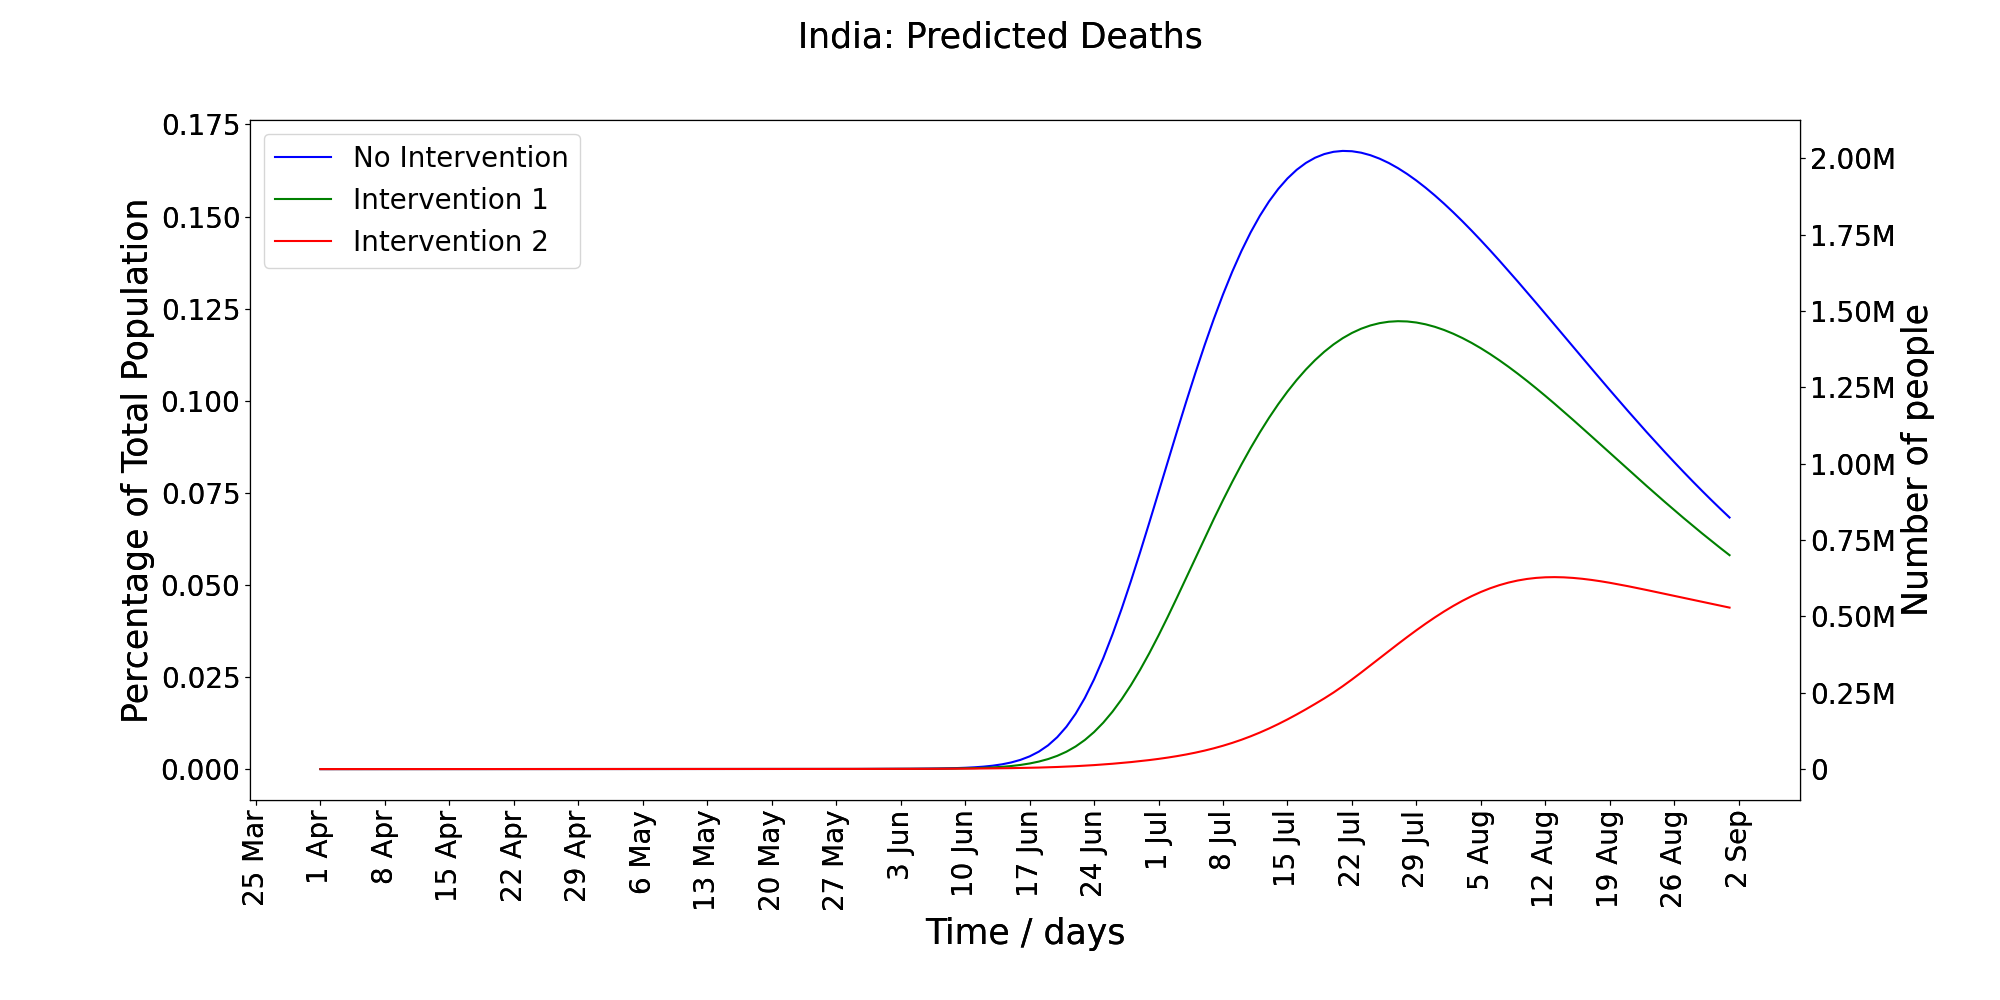
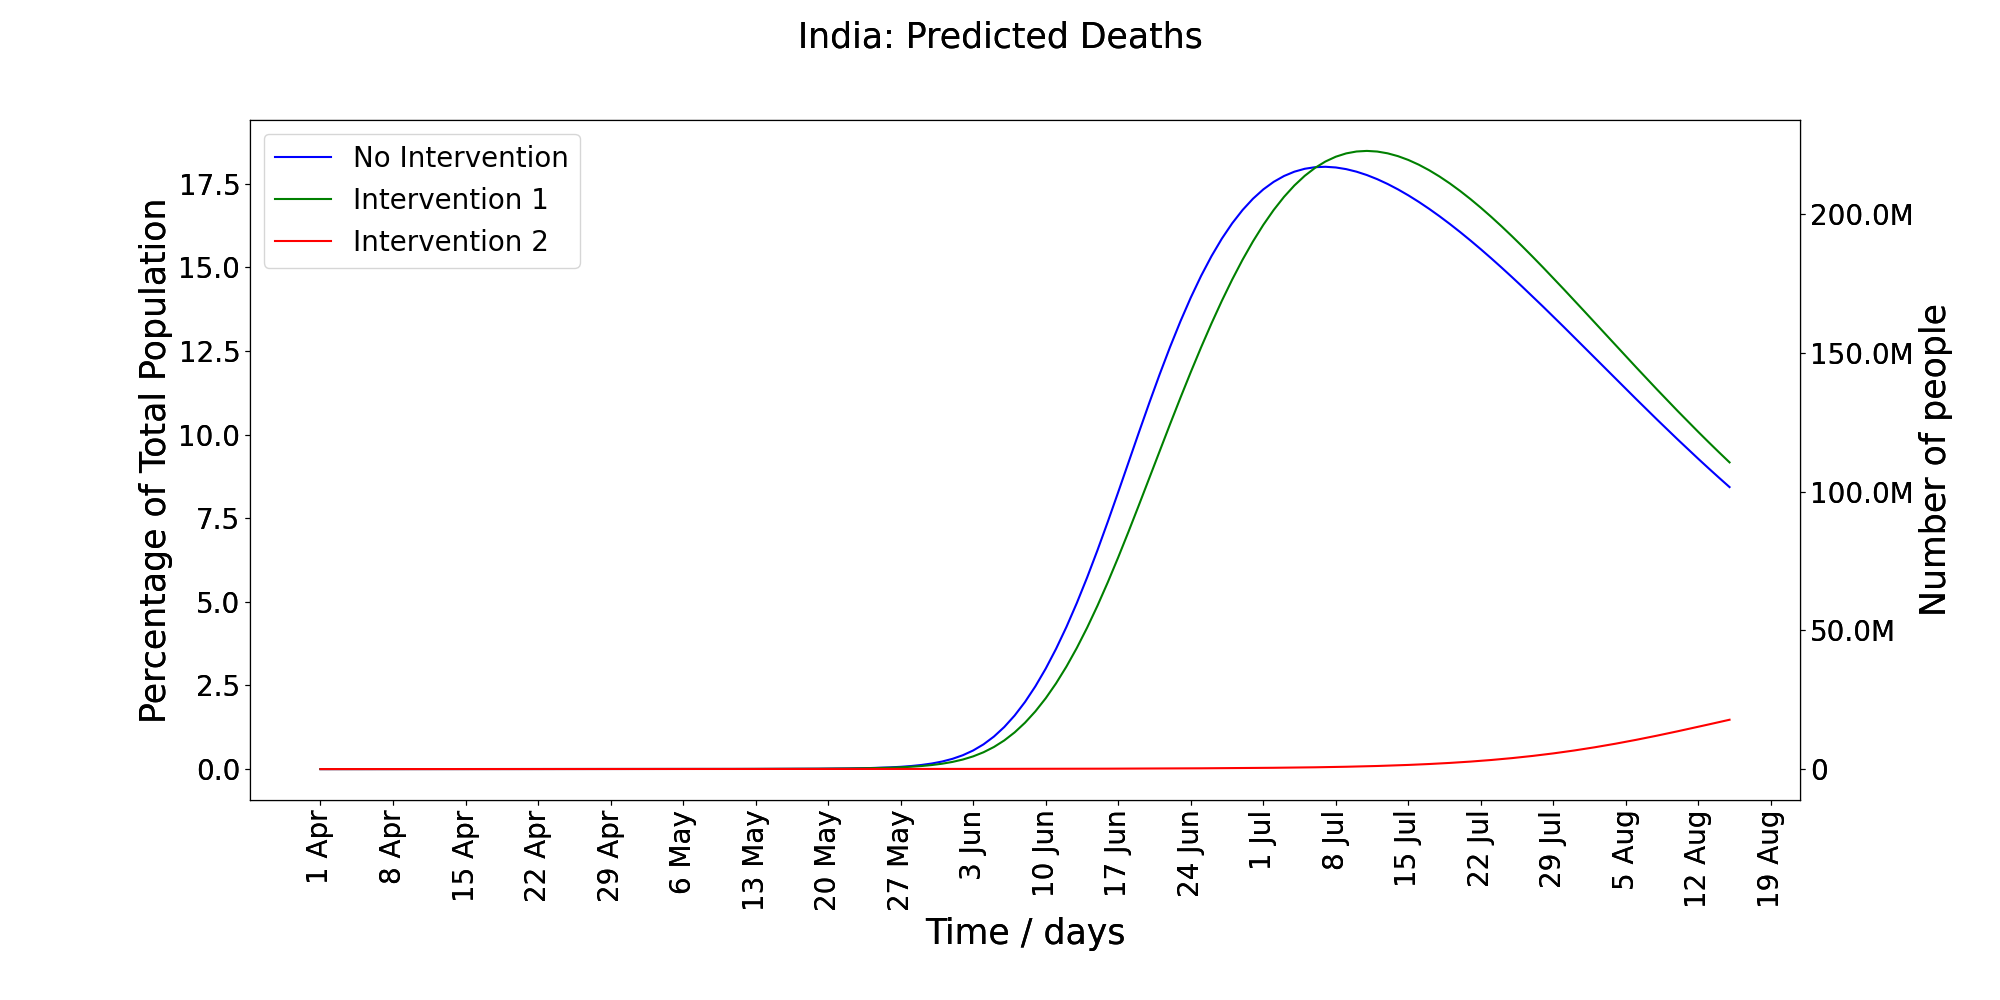
added code to make country wide plots

diff --git a/PlotIndia.py b/PlotIndia.py
@@ -1,0 +1,312 @@
+from Util import *
+import pickle
+import Plot
+from EKF import *
+import json
+import Model
+from scipy.integrate import odeint
+from functools import partial
+import numpy as np 
+import pandas as pd
+import pdb
+import os
+import matplotlib.pyplot as plt
+from matplotlib import ticker
+
+def odeSimulator (model, x0, T) :
+    dx = partial(model.dx, module=np)
+    result = odeint(dx, x0, T)
+    return result
+
+class KalmanSimulator () :
+
+    def __init__ (self, data, model, x0) : 
+        self.x0 = x0
+
+        self.data = data
+        self.model = model
+        self.dates = data['Date'].map(self.splitDates)
+
+        self.firstCases = Date(self.dates.iloc[0])
+        self.dataEndDate = Date(self.dates.iloc[-1])
+
+        self.peopleDied = self.dates[data['Total Dead'] > 0].size > 0
+        if self.peopleDied : 
+            self.firstDeath = Date(self.dates[data['Total Dead'] > 0].iloc[0])
+            self.startDate = self.firstDeath - 17
+            self.deaths = self.data['Daily Dead'][data['Total Dead'] > 0].to_numpy()
+        else : 
+            self.startDate = self.firstCases
+
+        self.P = (data['Total Cases'] - data['Total Recovered'] - data['Total Dead']).to_numpy()
+        
+        self.h1, self.h2 = [0] * 30, [0] * 30 
+        self.h1[9:12] = model.mortality.tolist() # Setting mortality
+
+        self.h1[21:24] = model.mortality.tolist() # Setting mortality
+
+        self.h1[24:27] = model.mortality.tolist() # Setting mortality
+        self.h2[-6:-3] = [1,1,1] # Setting P
+
+        self.setP0() 
+        self.setQ()
+
+    def setP0(self) : 
+        self.P0 = np.eye(30)
+
+    def setQ (self) :
+        self.Q = np.eye(30)
+    
+    def splitDates (self, date) : 
+        d, m, _ = date.split('-')
+        d = int(d)
+        return f'{d} {m}'
+
+    def H (self, date) : 
+        if self.peopleDied : 
+            if date < self.firstCases : 
+                return np.array([self.h1])
+            elif self.firstCases <= date <= self.dataEndDate - 17 :
+                return np.array([self.h1, self.h2])
+            elif self.dataEndDate - 17 < date <= self.dataEndDate : 
+                return np.array([self.h2])
+            else :
+                return np.array([])
+        else :
+            if date <= self.dataEndDate : 
+                return np.array([self.h2])
+            else :
+                return np.array([])
+
+    def Z (self, date): 
+        if self.peopleDied : 
+            if date < self.firstCases : 
+                m = self.deaths[date - self.startDate]
+                return np.array([m])
+            elif self.firstCases <= date <= self.dataEndDate - 17 :
+                m = self.deaths[date - self.startDate]
+                p = self.P[date - self.firstCases]
+                return np.array([m, p])
+            elif self.dataEndDate - 17 < date <= self.dataEndDate : 
+                p = self.P[date - self.firstCases]
+                return np.array([p])
+            else :
+                return np.array([])
+        else : 
+            if date <= self.dataEndDate : 
+                p = self.P[date - self.firstCases]
+                return np.array([p])
+            else : 
+                return np.array([])
+
+    def R (self, date): 
+        if self.peopleDied : 
+            if date < self.firstCases : 
+                return np.array([1])
+            elif self.firstCases <= date <= self.dataEndDate - 17 :
+                return np.eye(2)
+            elif self.dataEndDate - 17 < date <= self.dataEndDate : 
+                return np.array([1])
+            else :
+                return np.array([])
+        else : 
+            if date <= self.dataEndDate : 
+                return np.array([1])
+            else : 
+                return np.array([])
+
+    def __call__ (self, T) : 
+        endDate = self.startDate + T
+        series, variances = extendedKalmanFilter(
+                self.model.dx, self.x0, self.P0, 
+                self.Q, self.H, self.R, self.Z, 
+                self.startDate, endDate)
+        return series, variances
+
+def getInfections(dataDir, plot_start_date = Date('14 Mar')): 
+    data_end_date = None
+    with open('./Data/beta.json') as fd : 
+        betas = json.load(fd)
+    transportMatrix = np.loadtxt('./Data/transportMatrix.csv', delimiter=',')
+    statePop  = [getStatePop(s) for s in Model.STATES]
+    mortality = [0.01 * getAgeMortality(s) for s in Model.STATES]
+    data = [getData(s) for s in Model.STATES]
+    model = Model.IndiaModel(transportMatrix, betas, statePop, mortality, data) 
+    seriesOfSeries = []
+    lastSeries = []
+    seriesOfVariances = []
+    lastVariance = []
+    x0 = [0] * 15
+    tEnd = Date('15 Aug')
+
+    with open(os.path.join(dataDir, 'series.pkl'), 'rb') as fd : 
+        seriesOfSeries = pickle.load(fd)
+
+    with open(os.path.join(dataDir, 'var.pkl'), 'rb') as fd : 
+        seriesOfVariances = pickle.load(fd)
+
+    state_id = 1
+    total_population = 0
+    for m, datum, series, variance ,state, population in zip(model.models, data, seriesOfSeries, seriesOfVariances, Model.STATES, statePop) : 
+        ks = KalmanSimulator(datum, m, x0)
+        total_population += population.sum()
+        
+        T = len(series)
+        compartments = {k: [3*i, 3*i + 1, 3*i + 2] for i, k in enumerate(['S', 'E', 'A', 'I', 'Xs', 'Xe', 'Xa', 'Xi', 'P', 'R'])}
+        p, p_std = gather(T, series, variance, compartments['P'])
+        symptomatics, symptomatics_std = gather(T, series, variance, compartments['P'] + compartments['I'] + compartments['Xi'] + compartments['A'] + compartments['Xa'])
+    
+        if data_end_date is None:
+            data_end_date = ks.startDate + len(p)
+            total_p = np.zeros((data_end_date - plot_start_date))
+            total_symptomatics = np.zeros((data_end_date - plot_start_date))
+            total_p += p[len(p) - len(total_p):]
+            total_symptomatics += symptomatics[len(p) - len(total_symptomatics):]
+        else:
+            assert data_end_date.date == (ks.startDate + len(p)).date, "Inconsistency in the data - all simulations not ending at the same date"
+            assert data_end_date.date == (ks.startDate + len(symptomatics)).date, "Inconsistency in the data - all simulations not ending at the same date"
+            if len(p) < len(total_p):
+                p = np.concatenate([np.zeros(- len(p) + len(total_p)), p])
+                symptomatics = np.concatenate([np.zeros(- len(symptomatics) + len(total_symptomatics)), symptomatics])
+            total_p += p[len(p) - len(total_p):]
+            total_symptomatics += symptomatics[len(p) - len(total_symptomatics):]
+
+        state_id = state_id + 1
+    return total_p, total_symptomatics, total_population
+
+def gather(T, series, variances, indices):
+    outputSeries = [sum(x[index] for index in indices) for x in series]
+    outputVariances = [x[indices, :][:, indices].sum() for x in variances]
+    outputVariances = [np.sqrt(x) for x in outputVariances]
+    return np.array(outputSeries), np.array(outputVariances)
+
+def plot (
+        base,
+        intervention1,
+        intervention2,
+        beginDate,
+        step,
+        plot_of,
+        population = None,
+        state = "India"
+    ) : 
+    T = len(base_p)
+    # Define a closure function to register as a callback
+    
+    def convert_fraction_to_number(axis):
+        y1, y2 = axis.get_ylim()
+        rightAxis.set_ylim(population * float(y1) / 100., population * float(y2) / 100.)
+        rightAxis.figure.canvas.draw()
+
+    def convert_fraction_to_number2(axis):
+        y1, y2 = axis.get_ylim()
+        rightAxis2.set_ylim(population * float(y1) / 100., population * float(y2) / 100.)
+        rightAxis2.figure.canvas.draw()
+
+    def displayNumbers(x, pos):
+        if  x >= 1e7: return '%1.1fM' % (x * 1e-6)
+        elif  x > 1e5: return '%1.2fM' % (x * 1e-6)
+        elif x > 1e4: return '%1.0fk' % (x * 1e-3)
+        elif x > 1e3: return '%1.1fk' % (x * 1e-3)
+        else: return str(int(x))
+    formatter = ticker.FuncFormatter(displayNumbers)
+
+    def displayDate(y, pos):
+        return (beginDate + y).date
+    formatter_date = ticker.FuncFormatter(displayDate)
+
+    colors = ['b', 'g', 'r']
+    #Plotting Actual State Predictions
+
+    fig, ax1 = plt.subplots(nrows=1, ncols=1, sharex=True, figsize=(20, 10))
+    plt.xticks(rotation = 'vertical')
+    ax1.xaxis.set_major_formatter(formatter_date)
+    if population is not None:
+        rightAxis = ax1.twinx()
+        rightAxis.yaxis.set_major_formatter(formatter)
+        ax1.callbacks.connect("ylim_changed", convert_fraction_to_number)
+
+    fig.suptitle(state + ": " + plot_of, fontsize=25)
+    
+    ax1.plot(np.arange(T), base * 100. / population, color = colors[0], label = "No Intervention")
+    # ax1.fill_between(np.arange(T), np.maximum(p - p_std, 0) * 100. / population, (p + p_std) * 100. / population, facecolor = colors[0], alpha=0.2)
+    
+    ax1.plot(np.arange(T), intervention1 * 100. / population, color = colors[1], label = "Intervention 1")
+    # ax1.fill_between(np.arange(T), np.maximum(symptomatics - symptomatics_std, 0) * 100. / population, (symptomatics + symptomatics_std) * 100. / population , facecolor = colors[1], alpha=0.2)
+
+    ax1.plot(np.arange(T), intervention2 * 100. / population, color = colors[2], label = "Intervention 2")
+    # ax1.fill_between(np.arange(T), np.maximum(symptomatics - symptomatics_std, 0) * 100. / population, (symptomatics + symptomatics_std) * 100. / population , facecolor = colors[1], alpha=0.2)
+    
+    # ax1.scatter(np.arange(0), [], c= colors[2], label = "Reported Positive")
+
+    ax1.legend(fontsize = 20, loc="upper left")
+    ax1.set_xlabel('Time / days', fontsize=25)
+    rightAxis.set_ylabel('Number of people', fontsize=25)
+    ax1.set_ylabel('Percentage of Total Population', fontsize=25)
+    # ax1.set_yscale('log')
+    ax1.xaxis.set_major_locator(ticker.MultipleLocator(step))
+    ax1.tick_params(axis='both', which='major', labelsize=20)
+    if population is not None:
+        rightAxis.tick_params(axis='both', which='major', labelsize=20)
+
+    # #### INSET GRAPH
+    # left, bottom, width, height = [0.18, 0.37, 0.35, 0.35]
+    # ax2 = fig.add_axes([left, bottom, width, height])
+    
+    # if population is not None:
+    #     rightAxis2 = ax2.twinx()
+    #     rightAxis2.yaxis.set_major_formatter(formatter)
+    #     ax2.callbacks.connect("ylim_changed", convert_fraction_to_number2)
+    #     rightAxis2.tick_params(axis='both', which='major', labelsize=20)
+
+    # T2 = Date('1 Jun') - beginDate
+    
+    # base_deaths = base_deaths[:T2]
+    # intervention1_deaths = intervention1_deaths[:T2]
+    # intervention2_deaths = intervention2_deaths[:T2]
+    
+    # ax2.plot(np.arange(T2), base_deaths * 100. / population, color = colors[0], label = "No Intervention")
+    # # ax2.fill_between(np.arange(T2), np.maximum(p - p_std, 0) * 100. / population, (p + p_std) * 100. / population, facecolor = colors[0], alpha=0.2)
+    
+    # ax2.plot(np.arange(T2), intervention1_deaths * 100. / population, color = colors[1], label = "Intervention 1")
+    # # ax2.fill_between(np.arange(T2), np.maximum(symptomatics - symptomatics_std, 0) * 100. / population, (symptomatics + symptomatics_std) * 100. / population, facecolor = colors[1], alpha=0.2)
+
+    # ax2.plot(np.arange(T2), intervention2_deaths * 100. / population, color = colors[2], label = "Intervention 2")
+    # # ax2.fill_between(np.arange(T2), np.maximum(symptomatics - symptomatics_std, 0) * 100. / population, (symptomatics + symptomatics_std) * 100. / population, facecolor = colors[1], alpha=0.2)
+
+    # tickLabels = list(DateIter(beginDate, beginDate + T + 30))[::7]
+    # tickLabels = [d.date for d in tickLabels]
+    # tickLabels = ['', *tickLabels]
+    # ax2.xaxis.set_major_locator(ticker.MultipleLocator(7))
+    # ax2.set_xticklabels(tickLabels, rotation = 'vertical')
+    # ax2.tick_params(axis='both', which='major', labelsize=18)
+
+    plt.gcf().subplots_adjust(bottom=0.2)
+    fig.savefig('./Plots/master/' + state.upper() + '_' + plot_of.replace(" ", "_").lower())
+    plt.close(fig)
+    plt.clf()
+
+if __name__ == "__main__":
+    base_p, base_symptomatics, total_population= getInfections('/Users/sahil/Desktop/sem8/covid/blossomRuns/base/', plot_start_date = Date('1 Apr'))
+    intervention1_p, intervention1_symptomatics, _ = getInfections('/Users/sahil/Desktop/sem8/covid/blossomRuns/intervention1/', plot_start_date = Date('1 Apr'))
+    intervention2_p, intervention2_symptomatics, _ = getInfections('/Users/sahil/Desktop/sem8/covid/blossomRuns/intervention2/', plot_start_date = Date("1 Apr"))
+    print(list(zip(base_p, base_symptomatics)))
+    plot(
+        base = base_p,
+        intervention1 = intervention1_p,
+        intervention2 = intervention2_p,
+        plot_of = "Tested Positive",
+        beginDate = Date('1 Apr'),
+        step = 7,
+        population = total_population
+    )
+    plot(
+        base = base_symptomatics,
+        intervention1 = intervention1_symptomatics,
+        intervention2 = intervention2_symptomatics,
+        plot_of = "Total Infected",
+        beginDate = Date('1 Apr'),
+        step = 7,
+        population = total_population
+    )
+
